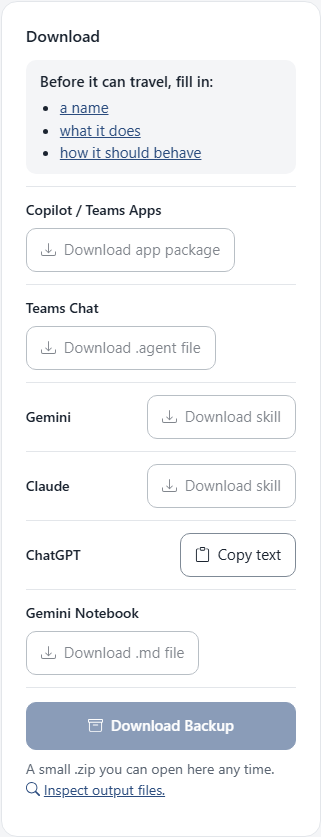
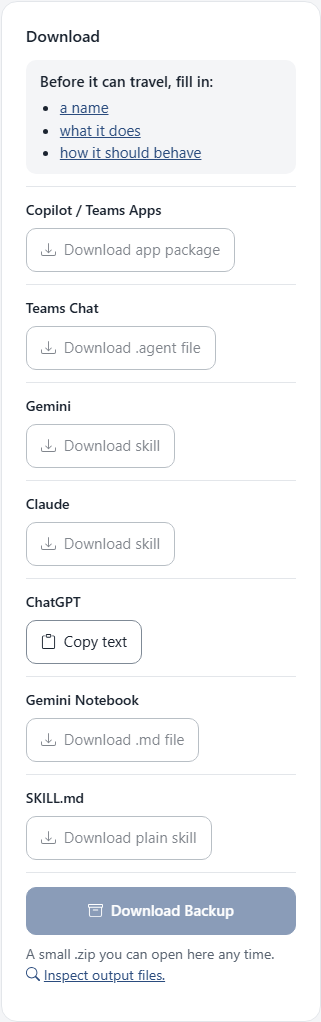
Make SKILL.md and the backup Inspect tabs and tidy the Download card
SKILL.md and Agentprise Backup are now the last two tabs on the Inspect page, each with its own file tree, hint, download button, and steps, in place of the two buttons that downloaded at once. The Workspace Download card lists SKILL.md, stacks every button under its label, and drops the note about what the app package leaves out; its Inspect output files link starts on its own line. Open a file and Start over carry icons, and a new Download button beside them scrolls to the Download card. The description question no longer says that one sentence is enough. The docs and the guide screenshots follow.

diff --git a/index.html b/index.html
@@ -76,6 +76,8 @@ with this program. If not, see <https://www.gnu.org/licenses/>.
[5 lines of base64/hex data omitted]
         }
         @media (prefers-color-scheme: dark) {
             :root {
@@ -357,6 +359,8 @@ with this program. If not, see <https://www.gnu.org/licenses/>.
         .bi-file-earmark-zip { --icon: var(--bi-file-earmark-zip); }
         .bi-filetype-md { --icon: var(--bi-filetype-md); }
         .bi-search { --icon: var(--bi-search); }
+        .bi-folder2-open { --icon: var(--bi-folder2-open); }
+        .bi-arrow-counterclockwise { --icon: var(--bi-arrow-counterclockwise); }
         .button-row { display: flex; flex-wrap: wrap; gap: 8px; }
 
         /* ### Start page ### */
@@ -525,18 +529,9 @@ with this program. If not, see <https://www.gnu.org/licenses/>.
         .readiness .hint { font-weight: 400; }
         .readiness li { overflow-wrap: anywhere; }
         .destination-list { list-style: none; margin: 0 0 14px; padding: 0; }
-        .destination-list li {
-            padding: 12px 0;
-            border-top: 1px solid var(--border-soft);
-            display: flex;
-            flex-wrap: wrap;
-            justify-content: space-between;
-            align-items: center;
-            gap: 8px 12px;
-        }
+        .destination-list li { padding: 12px 0; border-top: 1px solid var(--border-soft); }
         .destination-list li:last-child { border-bottom: 1px solid var(--border-soft); }
-        .destination-name { font-weight: 500; font-size: 0.875rem; }
-        .destination-note { flex-basis: 100%; margin: 0; font-size: 0.8125rem; color: var(--muted); }
+        .destination-name { display: block; font-weight: 500; font-size: 0.875rem; margin: 0 0 8px; }
         .destinations .primary { width: 100%; margin-bottom: 8px; }
 
         /* ### Forms ### */
@@ -576,8 +571,7 @@ with this program. If not, see <https://www.gnu.org/licenses/>.
         .details-grid { display: flex; flex-wrap: wrap; gap: 24px; align-items: flex-start; }
         .details-form { flex: 1 1 380px; min-width: 0; }
         .details-files { flex: 1.3 1 460px; min-width: 0; }
-        .product-row { display: flex; flex-wrap: wrap; gap: 6px 16px; justify-content: space-between; align-items: flex-start; margin: 0 0 16px; }
-        .product-tabs, .product-extra { display: flex; flex-wrap: wrap; gap: 6px; margin: 0; }
+        .product-tabs { display: flex; flex-wrap: wrap; gap: 6px; margin: 0 0 16px; }
         .product-tabs [role="tab"] { font-weight: 400; }
         .product-tabs [role="tab"][aria-selected="true"] { background: var(--accent); color: var(--on-accent); border-color: var(--accent); font-weight: 500; }
         .file-view {
@@ -819,8 +813,9 @@ with this program. If not, see <https://www.gnu.org/licenses/>.
                             <p class="page-hint" id="editor-hint">Fill in the lines. The preview updates as you type.</p>
                         </div>
                         <div class="button-row">
-                            <button type="button" id="open-file">Open a file</button>
-                            <button type="button" id="start-over">Start over</button>
+                            <button type="button" id="open-file"><span class="bi bi-folder2-open" aria-hidden="true"></span>Open a file</button>
+                            <button type="button" id="start-over"><span class="bi bi-arrow-counterclockwise" aria-hidden="true"></span>Start over</button>
+                            <button type="button" id="go-download"><span class="bi bi-download" aria-hidden="true"></span>Download</button>
                         </div>
                     </div>
                     <div class="editor-grid">
@@ -831,7 +826,7 @@ with this program. If not, see <https://www.gnu.org/licenses/>.
                                 <input type="text" id="s-name" class="blank" maxlength="100" placeholder="Lab Helper" autocomplete="off">
                             </div>
                             <div class="prompt-group">
-                                <label for="s-description" class="prompt">What does it do? One sentence is enough.</label>
+                                <label for="s-description" class="prompt">What does it do?</label>
                                 <input type="text" id="s-description" class="blank blank-wide" maxlength="1000" placeholder="Answers questions about lab procedures and safety." autocomplete="off">
                             </div>
                             <div class="prompt-group">
@@ -947,7 +942,7 @@ with this program. If not, see <https://www.gnu.org/licenses/>.
                                 <p class="preview-note">Preview. Appearance varies by product.</p>
                             </section>
                             <section class="card destinations" aria-labelledby="where-heading">
-                                <h2 id="where-heading" class="card-title">Download</h2>
+                                <h2 id="where-heading" class="card-title" tabindex="-1">Download</h2>
                                 <div class="readiness" id="readiness" hidden>
                                     <p>Before it can travel, fill in:</p>
                                     <ul id="readiness-list"></ul>
@@ -961,7 +956,6 @@ with this program. If not, see <https://www.gnu.org/licenses/>.
                                     <li>
                                         <span class="destination-name">Copilot / Teams Apps</span>
                                         <button type="button" class="download-button" data-format="teamsZip"><span class="bi bi-download" aria-hidden="true"></span>Download app package</button>
-                                        <p class="destination-note" id="copilot-loss" hidden></p>
                                     </li>
                                     <li>
                                         <span class="destination-name">Teams Chat</span>
@@ -983,9 +977,13 @@ with this program. If not, see <https://www.gnu.org/licenses/>.
                                         <span class="destination-name">Gemini Notebook</span>
                                         <button type="button" class="download-button" data-format="markdown"><span class="bi bi-download" aria-hidden="true"></span>Download .md file</button>
                                     </li>
+                                    <li>
+                                        <span class="destination-name">SKILL.md</span>
+                                        <button type="button" class="download-button" data-format="skill"><span class="bi bi-download" aria-hidden="true"></span>Download plain skill</button>
+                                    </li>
                                 </ul>
                                 <button type="button" class="primary download-button" data-format="bundle" id="keep-copy"><span class="bi bi-archive" aria-hidden="true"></span>Download Backup</button>
-                                <p class="small muted">A small .zip you can open here any time. <a href="#details"><span class="bi bi-search" aria-hidden="true"></span>Inspect output files.</a></p>
+                                <p class="small muted">A small .zip you can open here any time.<br><a href="#details"><span class="bi bi-search" aria-hidden="true"></span>Inspect output files.</a></p>
                             </section>
                         </aside>
                     </div>
@@ -1057,19 +1055,15 @@ with this program. If not, see <https://www.gnu.org/licenses/>.
                     <section class="card details-files" aria-labelledby="receive-heading">
                         <h2 id="receive-heading" class="card-title">Output Format</h2>
                         <p class="hint">Select an output format to inspect its contents.</p>
-                        <div class="product-row">
-                            <div class="product-tabs" role="tablist" aria-label="Output format">
-                                <button type="button" role="tab" id="ptab-gemini" aria-controls="ppanel" aria-selected="true">Gemini</button>
-                                <button type="button" role="tab" id="ptab-claude" aria-controls="ppanel" aria-selected="false" tabindex="-1">Claude</button>
-                                <button type="button" role="tab" id="ptab-msAgent" aria-controls="ppanel" aria-selected="false" tabindex="-1">Teams Chat</button>
-                                <button type="button" role="tab" id="ptab-teamsZip" aria-controls="ppanel" aria-selected="false" tabindex="-1">Copilot / Teams Apps</button>
-                                <button type="button" role="tab" id="ptab-chatgpt" aria-controls="ppanel" aria-selected="false" tabindex="-1">ChatGPT</button>
-                                <button type="button" role="tab" id="ptab-notebook" aria-controls="ppanel" aria-selected="false" tabindex="-1">Gemini Notebook</button>
-                            </div>
-                            <div class="product-extra" role="group" aria-label="Other downloads">
-                                <button type="button" class="download-button" data-format="skill"><span class="bi bi-filetype-md" aria-hidden="true"></span>Download SKILL.md</button>
-                                <button type="button" class="download-button" data-format="bundle"><span class="bi bi-archive" aria-hidden="true"></span>Download Backup</button>
-                            </div>
+                        <div class="product-tabs" role="tablist" aria-label="Output format">
+                            <button type="button" role="tab" id="ptab-gemini" aria-controls="ppanel" aria-selected="true">Gemini</button>
+                            <button type="button" role="tab" id="ptab-claude" aria-controls="ppanel" aria-selected="false" tabindex="-1">Claude</button>
+                            <button type="button" role="tab" id="ptab-msAgent" aria-controls="ppanel" aria-selected="false" tabindex="-1">Teams Chat</button>
+                            <button type="button" role="tab" id="ptab-teamsZip" aria-controls="ppanel" aria-selected="false" tabindex="-1">Copilot / Teams Apps</button>
+                            <button type="button" role="tab" id="ptab-chatgpt" aria-controls="ppanel" aria-selected="false" tabindex="-1">ChatGPT</button>
+                            <button type="button" role="tab" id="ptab-notebook" aria-controls="ppanel" aria-selected="false" tabindex="-1">Gemini Notebook</button>
+                            <button type="button" role="tab" id="ptab-skill" aria-controls="ppanel" aria-selected="false" tabindex="-1">SKILL.md</button>
+                            <button type="button" role="tab" id="ptab-backup" aria-controls="ppanel" aria-selected="false" tabindex="-1">Agentprise Backup</button>
                         </div>
                         <div role="tabpanel" id="ppanel" aria-labelledby="ptab-gemini" tabindex="0">
                             <div class="notice" id="product-blocked" hidden>
@@ -1141,6 +1135,7 @@ with this program. If not, see <https://www.gnu.org/licenses/>.
                                 <tr><th scope="row">App package (.zip)</th><td>Yes</td><td>No</td><td>No</td><td>No</td><td>No</td></tr>
                                 <tr><th scope="row">.agent file</th><td>No</td><td>Yes</td><td>No</td><td>No</td><td>No</td></tr>
                                 <tr><th scope="row">Skill, also Download Backup (.zip)</th><td>No</td><td>No</td><td>Yes</td><td>Yes</td><td>No</td></tr>
+                                <tr><th scope="row">Plain skill, SKILL.md (.skill.zip)</th><td>No</td><td>No</td><td>Yes</td><td>Yes</td><td>No</td></tr>
                                 <tr><th scope="row">Copy text</th><td>No</td><td>No</td><td>Notebook only</td><td>No</td><td>Yes</td></tr>
                                 <tr><th scope="row">.md file</th><td>No</td><td>No</td><td>Notebook only</td><td>No</td><td>No</td></tr>
                             </tbody>
@@ -3690,6 +3685,11 @@ async function bundleExport(agent) {
     return { fileName: safeFileName(agent.name, ".zip"), bytes: zipWrite(entries), warnings: warnings, skillName: skillName };
 }
 
+/** Frontmatter for the plain skill: only the fields the Agent Skills standard defines. */
+function skillFrontmatter(agent, skillName) {
+    return { name: skillName, description: agent.description || agent.name, license: agent.license + ". See LICENSE.txt." };
+}
+
 /**
  * Writes a plain Agent Skill ZIP: the same folder as the bundle, but SKILL.md
  * carries only the fields the standard defines (name, description, license),
@@ -3705,8 +3705,7 @@ async function skillExport(agent) {
     if (!agent.description) {
         warnings.push("The description is empty, so the name is used as the description.");
     }
-    const frontmatter = { name: skillName, description: agent.description || agent.name, license: agent.license + ". See LICENSE.txt." };
-    const skillMd = stringifyFrontmatter(frontmatter, "\n" + agent.instructions + "\n");
+    const skillMd = stringifyFrontmatter(skillFrontmatter(agent, skillName), "\n" + agent.instructions + "\n");
     const entries = [{ name: skillName + "/SKILL.md", bytes: toBytes(skillMd) }];
     entries.push({ name: skillName + "/LICENSE.txt", bytes: toBytes(bundleLicenseText(agent)) });
     entries.push({ name: skillName + "/README.md", bytes: toBytes(bundleReadme(agent)) });
@@ -4159,7 +4158,7 @@ const LEGACY_HASHES = { home: "workspace", build: "workspace", check: "details",
 // Tabs on the Inspect page, in order. Gemini and Claude receive the same skill
 // ZIP today but are separate tabs, since the two products' skill support is
 // changing and may diverge.
-const PRODUCT_NAMES = ["gemini", "claude", "msAgent", "teamsZip", "chatgpt", "notebook"];
+const PRODUCT_NAMES = ["gemini", "claude", "msAgent", "teamsZip", "chatgpt", "notebook", "skill", "backup"];
 // The Workspace editor always shows at least this many blanks for example questions.
 const MIN_STARTER_BLANKS = 2;
 // Products show only a few starters at a time, so the preview shows at most this many.
@@ -4181,7 +4180,9 @@ const PRODUCT_HINTS = {
     msAgent: "Single file for SharePoint, OneDrive and Teams chats.",
     teamsZip: "Keep the same file when you update it, so the app id stays the same.",
     chatgpt: "No file to upload. Copy each box into the matching field.",
-    notebook: "Add the .md file as a source, or paste the instructions."
+    notebook: "Add the .md file as a source, or paste the instructions.",
+    skill: "A plain Agent Skill with nothing specific to this app. It leaves out the picture, the welcome message, the prompt suggestions, and the Copilot settings.",
+    backup: "Everything you wrote, including the picture. Open it here any time to keep editing."
 };
 const AFTER_STEPS = {
     gemini: [
@@ -4201,6 +4202,12 @@ const AFTER_STEPS = {
     ],
     notebook: [
         ["In Gemini Notebook", ["Open the notebook, then More, then Notebook settings.", "Add the .md download as a source.", "Or paste the instructions into the instructions field."]]
+    ],
+    skill: [
+        ["In a tool that reads Agent Skills", ["Upload or unzip this file where the tool looks for skills.", "SKILL.md holds the instructions, and the references folder holds the attached files."]]
+    ],
+    backup: [
+        ["In Agentprise", ["Keep this file somewhere safe. Browsers can clear what they store.", "Drop it on the Workspace page to pick up where you left off or to download it for another product."]]
     ]
 };
 const INSTRUCTIONS_TEMPLATE = [
@@ -4764,6 +4771,12 @@ function setupFileOpening() {
     const input = $("file-input");
     $("browse-button").addEventListener("click", function () { input.click(); });
     $("open-file").addEventListener("click", function () { input.click(); });
+    // The download card sits below the fold on small screens, so this button scrolls to it.
+    $("go-download").addEventListener("click", function () {
+        const heading = $("where-heading");
+        heading.scrollIntoView({ behavior: "smooth", block: "start" });
+        heading.focus({ preventScroll: true });
+    });
     input.addEventListener("change", function () {
         if (input.files && input.files[0]) {
             openFile(input.files[0]);
@@ -4974,21 +4987,6 @@ function renderReview() {
     });
 }
 
-/** What the app package drops, shown under its download button. */
-function teamsLossItems(agent) {
-    const items = [];
-    if (agent.welcome) { items.push("the welcome message"); }
-    if (agent.copyright || agent.license !== DEFAULT_LICENSE) { items.push("the copyright line and license name"); }
-    return items;
-}
-
-function renderCopilotLoss() {
-    const note = $("copilot-loss");
-    const items = teamsLossItems(ui.agent);
-    note.hidden = items.length === 0;
-    setText(note, items.length ? "The app package leaves out " + items.join(" and ") + "." : "");
-}
-
 /** Recomputes everything that follows from the agent: the preview, readiness, counters, and files. */
 function updateDerived() {
     const agent = ui.agent;
@@ -5008,7 +5006,6 @@ function updateDerived() {
     renderPreview();
     renderReadiness();
     renderReview();
-    renderCopilotLoss();
     renderBreadcrumb();
     if (ui.view === "details") {
         scheduleProductRender();
@@ -5411,7 +5408,7 @@ function appendHighlighted(container, text, needles) {
  * @returns {Promise<{root: string, files: Array<object>, fileName: string, format: string, notes: string[]}>}
  */
 async function buildProductFiles(agent, product) {
-    if (product === "gemini" || product === "claude") {
+    if (product === "gemini" || product === "claude" || product === "backup") {
         const skillName = toSkillName(agent.name);
         const files = [{ name: "SKILL.md", text: stringifyFrontmatter(bundleFrontmatter(agent, skillName), "\n" + agent.instructions + "\n") }];
         if (agent.icon) {
@@ -5423,6 +5420,16 @@ async function buildProductFiles(agent, product) {
             files.push({ name: BUNDLE_FILES_FOLDER + file.name, size: file.bytes.length });
         });
         return { root: skillName + "/", files: files, fileName: safeFileName(agent.name, ".zip"), format: "bundle", notes: [] };
+    }
+    if (product === "skill") {
+        const skillName = toSkillName(agent.name);
+        const files = [{ name: "SKILL.md", text: stringifyFrontmatter(skillFrontmatter(agent, skillName), "\n" + agent.instructions + "\n") }];
+        files.push({ name: "LICENSE.txt", text: bundleLicenseText(agent) });
+        files.push({ name: "README.md", text: bundleReadme(agent) });
+        agent.files.forEach(function (file) {
+            files.push({ name: BUNDLE_FILES_FOLDER + file.name, size: file.bytes.length });
+        });
+        return { root: skillName + "/", files: files, fileName: safeFileName(agent.name, ".skill.zip"), format: "skill", notes: [] };
     }
     if (product === "msAgent") {
         const result = msAgentExport(agent);

diff --git a/docs/usage.md b/docs/usage.md
@@ -138,6 +138,7 @@ Under **Download**, choose the product people will use:
 | Gemini or Claude | **Download skill** | A skill (`.zip`), the same file for both |
 | ChatGPT | ChatGPT, **Copy text** | Text to paste |
 | Gemini Notebook | Gemini Notebook, **Download .md file** | A `.md` file to add as a source |
+| Any other tool that reads Agent Skills | SKILL.md, **Download plain skill** | A plain skill (`.skill.zip`) with nothing specific to this app |
 
 The [formats page](formats.md) explains what to do with each file once you have
 it, and what the app package leaves out.
@@ -171,10 +172,10 @@ download a backup of anything you want to keep.
 Choose **Inspect** on the left, or **Inspect output files** under the download
 buttons. The left side shows every field as a plain form, and the right side
 shows the files for the output format you pick, with your own words
-highlighted. Changes you make here show up in the Workspace too. Two more
-buttons sit next to the tabs: **Download SKILL.md** gives you a plain Agent
-Skill with nothing specific to this app, and **Download Backup** is the same
-backup as on the Workspace page.
+highlighted. Changes you make here show up in the Workspace too. The last two
+tabs are **SKILL.md**, a plain Agent Skill with nothing specific to this app,
+and **Agentprise Backup**, the same backup as on the Workspace page. Each tab
+has its own download button under the files.
 
 ### Come back later
 

diff --git a/docs/how-to/move-an-assistant-to-gemini-or-claude.md b/docs/how-to/move-an-assistant-to-gemini-or-claude.md
@@ -89,7 +89,7 @@ To see what is inside, choose **Inspect** on the left. The Inspect page shows
 every field as a plain form on the left, and the files for one product on the
 right.
 
-![The Inspect page. The left card, titled Agent Details, shows the name, description, and instructions as form fields. The right card, titled Output Format, has six tabs: Gemini, Claude, Teams Chat, Copilot / Teams Apps, ChatGPT, and Gemini Notebook, with the first tab selected and its files listed below. Two more buttons, Download SKILL.md and Download Backup, sit to the right of the tabs.](../../images/guides/details.png)
+![The Inspect page. The left card, titled Agent Details, shows the name, description, and instructions as form fields. The right card, titled Output Format, has eight tabs: Gemini, Claude, Teams Chat, Copilot / Teams Apps, ChatGPT, Gemini Notebook, SKILL.md, and Agentprise Backup, with the first tab selected and its files listed below.](../../images/guides/details.png)
 
 The **Gemini** tab lists the files, with your own words
 highlighted.

diff --git a/skills/project-preferences/SKILL.md b/skills/project-preferences/SKILL.md
@@ -117,9 +117,10 @@ the page locally with `.\run-windows.ps1`, `./run-linux.sh`, or
   "Download Backup" file), the plain skill (`.skill.zip`, standard fields
   only), the `.agent` file (labeled "Teams Chat"), the Teams app package
   (labeled "Copilot / Teams Apps"), the copy boxes for ChatGPT, and the `.md`
-  file for Gemini Notebook. Gemini and Claude have separate Inspect tabs even
-  while their files match. Do not add a vendor until it has a real file to
-  download.
+  file for Gemini Notebook. Every download, the plain skill and the backup
+  included, is an Inspect tab with its own file tree and download button.
+  Gemini and Claude have separate tabs even while their files match. Do not
+  add a vendor until it has a real file to download.
 - Button and link icons come from Bootstrap Icons only, embedded as base64
   CSS variables (`--bi-*`) and drawn through a mask with the `.bi` class, so
   each icon is stored once. Credit stays in the README.

diff --git a/docs/formats.md b/docs/formats.md
@@ -37,7 +37,7 @@ maintainers", holds the technical details behind each file.
 | Claude | Claude, Download skill | The same skill (`.zip`) |
 | ChatGPT | ChatGPT, Copy text | Text to paste |
 | Gemini Notebook | Gemini Notebook, Download .md file | A `.md` file to add as a source |
-| Another tool that reads Agent Skills | Download SKILL.md, on the Inspect page | A plain skill (`.skill.zip`) with nothing specific to this app |
+| Another tool that reads Agent Skills | SKILL.md, Download plain skill | A plain skill (`.skill.zip`) with nothing specific to this app |
 | Nowhere yet, or you want to edit it later | Download Backup | The same `.zip` as Download skill |
 
 The skill `.zip` is the complete copy. Drop it on the Workspace page any time to

diff --git a/docs/faq.md b/docs/faq.md
@@ -129,6 +129,7 @@ or start the included server as the README describes.
 | App package (`.zip`) | Yes | No | No | No | No |
 | `.agent` file | No | Yes | No | No | No |
 | Skill, also Download Backup (`.zip`) | No | No | Yes | Yes | No |
+| Plain skill, SKILL.md (`.skill.zip`) | No | No | Yes | Yes | No |
 | Copy text | No | No | Notebook only | No | Yes |
 | `.md` file | No | No | Notebook only | No | No |
 
